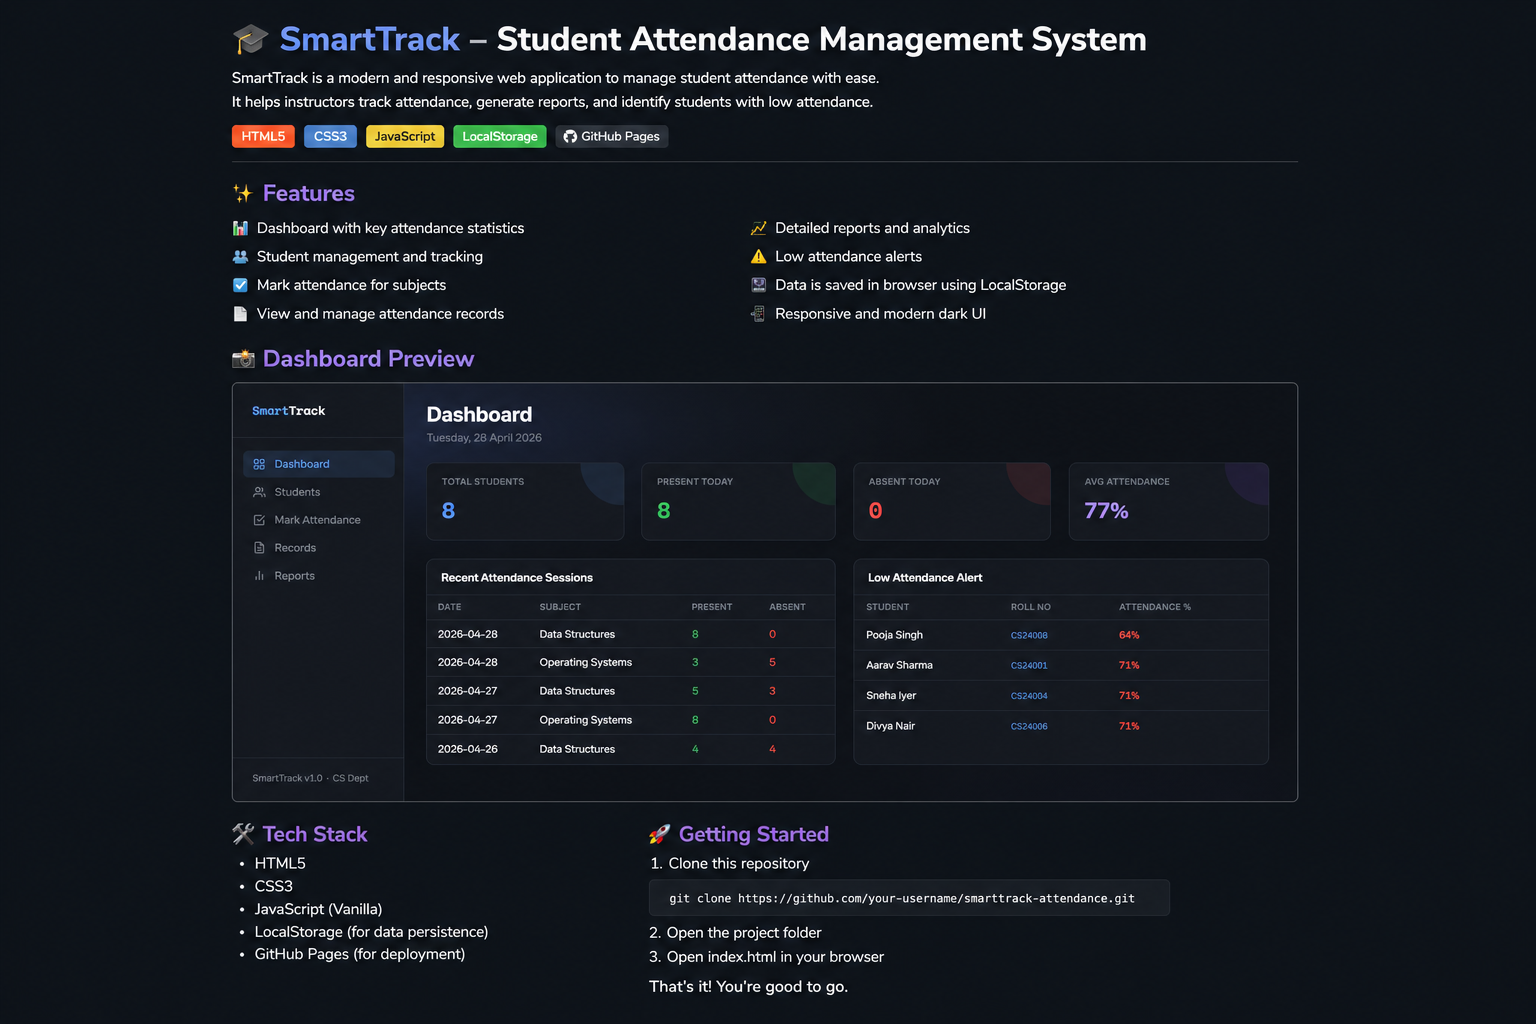
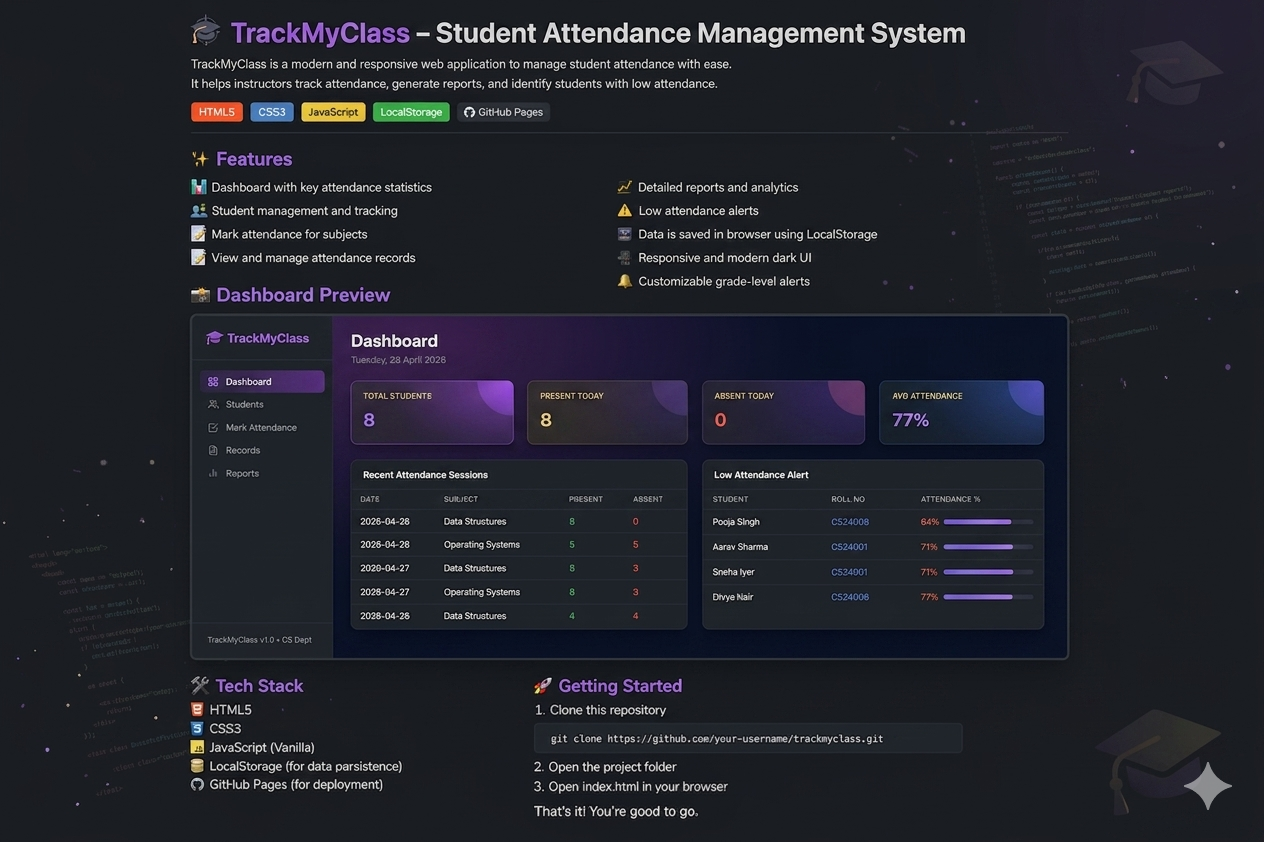
docs: addd final README with screenshot and badges

diff --git a/README.md b/README.md
@@ -13,7 +13,7 @@
 
 <br/>
 
-**AttendEase** is a fully browser-based attendance management system for students — no backend, no setup, no friction. Built with vanilla HTML, CSS, and JavaScript, it delivers real-time tracking, rich analytics, and clean reporting right from `index.html`.
+**TrackMyClass** is a fully browser-based attendance management system for students — no backend, no setup, no friction. Built with vanilla HTML, CSS, and JavaScript, it delivers real-time tracking, rich analytics, and clean reporting right from `index.html`.
 
 <br/>
 
